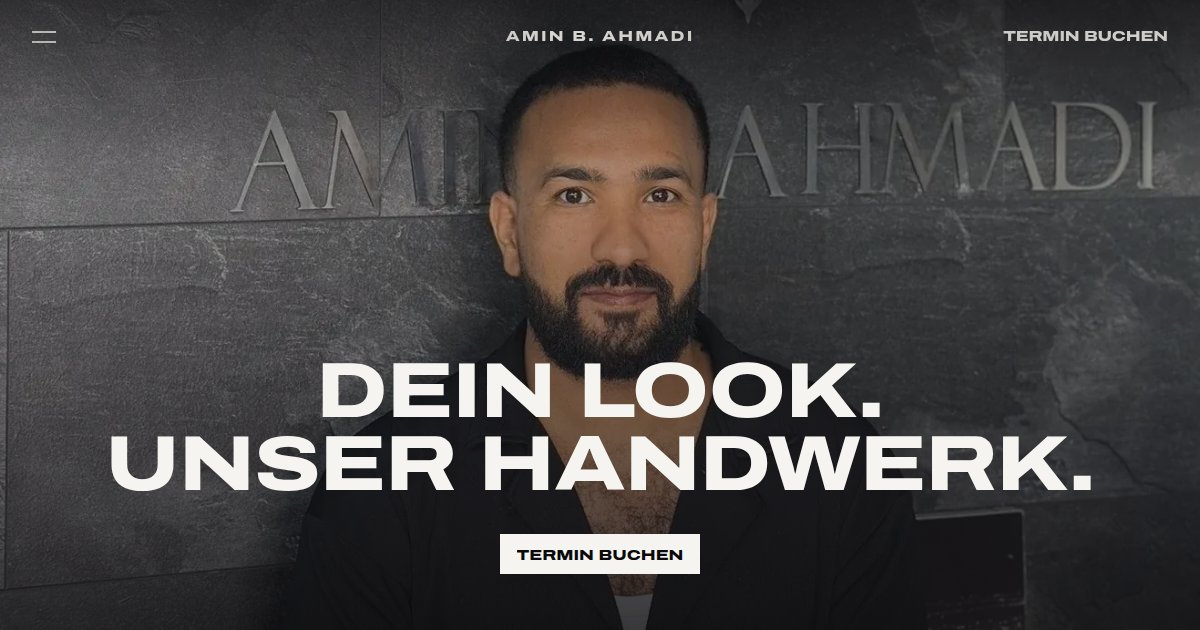
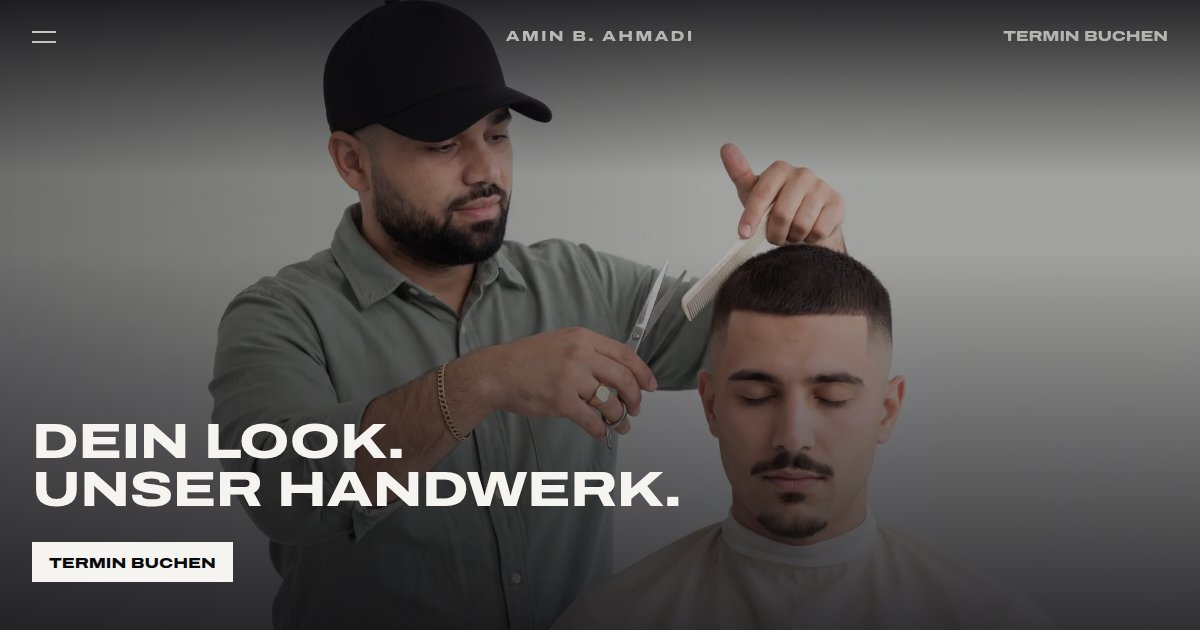
Neues Hero-Bild: Amin bei der Arbeit
- Hero zeigt Amin mit Schere und Kamm am Kunden (Desktop 2000/1000 px,
  eigener Hochformat-Ausschnitt fürs Handy per <picture>)
- Headline und Button auf Desktop unten links, damit Gesichter, Schere
  und Kamm frei bleiben; auf dem Handy weiterhin zentriert
- Oben stärker abgedunkelt: Navigation (mix-blend-difference) auf dem
  hellen Studiohintergrund jetzt mit ca. 6:1 statt 2:1 Kontrast
- Menü: "Preise" zeigt ein Detail (Hände, Schere, Kamm), "Team" ein
  3 × 2 Raster aller Porträts
- Nicht mehr genutzte Fotos entfernt, Vorschaubild (og.jpg) und README
  aktualisiert

Claude-Session: https://claude.ai/code/session_01KBHsCnWNXAB2Le3gAEsivF

diff --git a/src/components/Hero.tsx b/src/components/Hero.tsx
@@ -13,36 +13,43 @@ export function Hero() {
   return (
     <section id="top" ref={ref} className="relative isolate h-svh min-h-[560px] overflow-hidden bg-ink text-paper">
       <motion.div style={{ y }} className="absolute inset-0 -z-20">
-        <motion.img
-          src={image('photos/salon-wand')}
-          srcSet={`${image('photos/salon-wand-800')} 800w, ${image('photos/salon-wand')} 1317w`}
-          sizes="100vw"
-          alt={`Barber vor dem Logo an der Wand im Salon ${salon.name}`}
-          fetchPriority="high"
-          initial={{ scale: 1.15 }}
-          animate={{ scale: 1 }}
-          transition={{ duration: 2.2, ease: EASE_OUT_EXPO }}
-          className="size-full object-cover object-[50%_60%] md:object-[50%_100%]"
-        />
+        {/* Handy: eigener Hochformat-Ausschnitt mit Amin und der Schere */}
+        <picture>
+          <source media="(max-width: 767px)" srcSet={image('photos/hero-mobile')} />
+          <motion.img
+            src={image('photos/hero')}
+            srcSet={`${image('photos/hero-1000')} 1000w, ${image('photos/hero')} 2000w`}
+            sizes="100vw"
+            alt={`${salon.name} schneidet einem Kunden mit Schere und Kamm die Haare`}
+            fetchPriority="high"
+            initial={{ scale: 1.15 }}
+            animate={{ scale: 1 }}
+            transition={{ duration: 2.2, ease: EASE_OUT_EXPO }}
+            className="size-full object-cover md:object-[50%_25%]"
+          />
+        </picture>
       </motion.div>
-      <div aria-hidden="true" className="absolute inset-0 -z-10 bg-ink/35" />
-      <div aria-hidden="true" className="absolute inset-x-0 top-0 -z-10 h-40 bg-linear-to-b from-ink/60 to-transparent" />
-      <div aria-hidden="true" className="absolute inset-x-0 bottom-0 -z-10 h-2/3 bg-linear-to-t from-ink/70 to-transparent" />
+      <div aria-hidden="true" className="absolute inset-0 -z-10 bg-ink/30" />
+      {/* oben dunkler, damit die Navigation auf dem hellen Studiohintergrund lesbar bleibt */}
+      <div aria-hidden="true" className="absolute inset-x-0 top-0 -z-10 h-44 bg-linear-to-b from-ink/80 to-transparent" />
+      <div aria-hidden="true" className="absolute inset-x-0 bottom-0 -z-10 h-3/5 bg-linear-to-t from-ink/75 to-transparent" />
+      <div aria-hidden="true" className="absolute inset-y-0 left-0 -z-10 hidden w-3/5 bg-linear-to-r from-ink/35 to-transparent md:block" />
 
-      <div className="flex h-full flex-col items-center justify-end px-4 pb-10 text-center md:pb-14">
+      {/* Text unten links: Gesichter, Schere und Kamm bleiben frei */}
+      <div className="flex h-full flex-col items-center justify-end px-4 pb-10 text-center md:items-start md:px-8 md:pb-12 md:text-left">
         <RevealLines
           as="h1"
           onLoad
           delay={0.3}
           srLabel={`${salon.name} – Barber & Friseur in ${salon.city}. Dein Look, unser Handwerk.`}
-          className="display text-[clamp(1.55rem,6.4vw,5.75rem)]"
+          className="display text-[clamp(1.55rem,4.2vw,4.5rem)]"
           lines={['Dein Look.', 'Unser Handwerk.']}
         />
         <motion.div
           initial={{ opacity: 0, y: 12 }}
           animate={{ opacity: 1, y: 0 }}
           transition={{ duration: 1, delay: 0.9, ease: EASE_OUT_EXPO }}
-          className="mt-6 md:mt-8"
+          className="mt-6 md:mt-7"
         >
           <Button tone="light" />
         </motion.div>

diff --git a/src/components/Menu.tsx b/src/components/Menu.tsx
@@ -1,15 +1,16 @@
 import { AnimatePresence, motion } from 'motion/react'
 import { useEffect, useRef, useState } from 'react'
-import { BOOKING_URL, image, salon } from '../data/salon'
+import { BOOKING_URL, image, salon, team } from '../data/salon'
 import { cn } from '../lib/cn'
 import { EASE_OUT_EXPO } from '../lib/motion'
 import { scrollToHash, unlockScroll } from '../lib/scroll'
 import { GridLines } from './GridLines'
 
+// Ein Bild oder – beim Team – ein 3 × 2 Raster aus allen Porträts
 const items = [
-  { href: '#preise', label: 'Preise', photo: image('photos/emblem-quadrat') },
-  { href: '#team', label: 'Team', photo: image('photos/mo-wand') },
-  { href: '#kontakt', label: 'Kontakt', photo: image('photos/emblem-breit-900') },
+  { href: '#preise', label: 'Preise', photos: [image('photos/hero-detail')] },
+  { href: '#team', label: 'Team', photos: team.map((m) => m.thumb) },
+  { href: '#kontakt', label: 'Kontakt', photos: [image('photos/emblem-breit-900')] },
 ]
 
 /** Vollbild-Menü: große Links, daneben wechselt das Bild zum Link unter dem Mauszeiger. */
@@ -72,15 +73,18 @@ export function Menu({ open, onClose }: { open: boolean; onClose: () => void }) 
 
               <div className="relative hidden md:block">
                 {items.map((item, i) => (
-                  <img
+                  <div
                     key={item.href}
-                    src={item.photo}
-                    alt=""
                     className={cn(
-                      'absolute inset-0 size-full object-cover transition-all duration-700 ease-out-expo',
+                      'absolute inset-0 grid gap-[2px] transition-all duration-700 ease-out-expo',
+                      item.photos.length > 1 && 'grid-cols-3',
                       active === i ? 'scale-100 opacity-100' : 'scale-105 opacity-0',
                     )}
-                  />
+                  >
+                    {item.photos.map((src) => (
+                      <img key={src} src={src} alt="" className="size-full min-h-0 object-cover" />
+                    ))}
+                  </div>
                 ))}
               </div>
             </div>

diff --git a/README.md b/README.md
@@ -25,15 +25,19 @@ npm run preview  # Build lokal ansehen
 | Was | Wo |
 | --- | --- |
 | Preise, Dauer, Leistungen, Öffnungszeiten, Team, Kontakt | `src/data/salon.ts` |
-| Fotos (Hero, Über uns, Menü, Fotoraster) | `src/assets/photos/*.webp` |
+| Fotos (Hero, Über uns, Menü) | `src/assets/photos/*.webp` |
 | Team-Porträts | `src/assets/team/*.webp` |
 | Schriftzug oben in der Mitte | `src/components/Nav.tsx` |
 | Favicon, App-Icon, Vorschaubild zum Teilen | `public/` |
 | Impressum & Datenschutz | `impressum.html`, `datenschutz.html` |
 
-**Fotos:** Hero, „Über uns“ und Menü nutzen die Fotos von der Logo-Wand im Salon (Setmore-Seite). Für den
-Hero lohnt sich ein eigenes, hochauflösendes Foto (mind. 2400 px breit), z. B. ein Barber bei der Arbeit.
-Einfach `salon-wand.webp` bzw. `salon-wand-800.webp` ersetzen.
+**Hero:** Amin bei der Arbeit (per Bild-KI erstellt), abgelegt als `hero.webp` (2000 px), `hero-1000.webp`
+und `hero-mobile.webp` (Hochformat-Ausschnitt fürs Handy). Die Headline steht unten links, damit Gesichter,
+Schere und Kamm frei bleiben. Beim Austauschen alle drei Dateien ersetzen, den Handy-Ausschnitt so wählen,
+dass Gesicht und Hände darin liegen. `hero-detail.webp` (Hände mit Schere und Kamm) erscheint im Menü.
+
+**Salon-Fotos:** „Über uns“ und der Menüpunkt „Kontakt“ zeigen das Logo an der Wand im Salon
+(`emblem.webp`, `emblem-breit-900.webp`, aus den Fotos der Setmore-Seite).
 
 **Team-Porträts:** Einheitliche Studio-Porträts (per Bild-KI aus den Originalfotos erstellt), je zweimal
 abgelegt: `name.webp` (1000 px breit, Team-Liste) und `name-thumb.webp` (320 × 320, Fotoraster und
@@ -48,7 +52,8 @@ Setmore-Seite hinter `products=`.
 - [ ] Platzhalter in `impressum.html` und `datenschutz.html` ausfüllen (`[…]`) und rechtlich prüfen lassen
 - [ ] Domain in `.env` bei `VITE_SITE_URL` eintragen (für das Vorschaubild bei WhatsApp/Facebook)
 - [ ] Rollen im Team prüfen (`src/data/salon.ts`)
-- [ ] Einverständnis des Teams für die Verwendung der Fotos einholen
+- [ ] Einverständnis des Teams für die Verwendung der Fotos einholen (Porträts und Hero sind KI-Bilder
+      nach echten Fotos – vor der Veröffentlichung freigeben lassen)
 
 Der Live-Status „Jetzt geöffnet“ rechnet mit den Öffnungszeiten aus `src/data/salon.ts` und
 kennt keine Feiertage.
